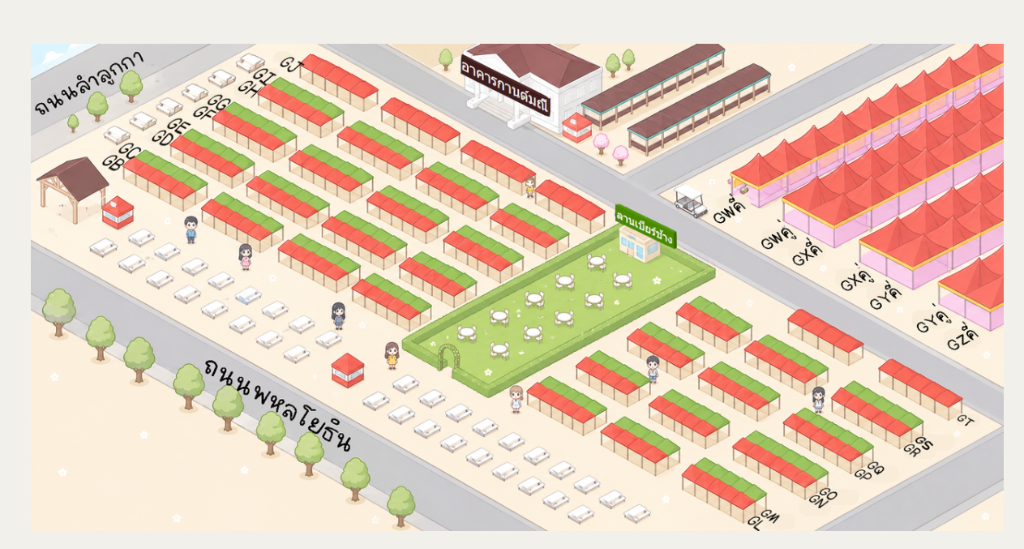
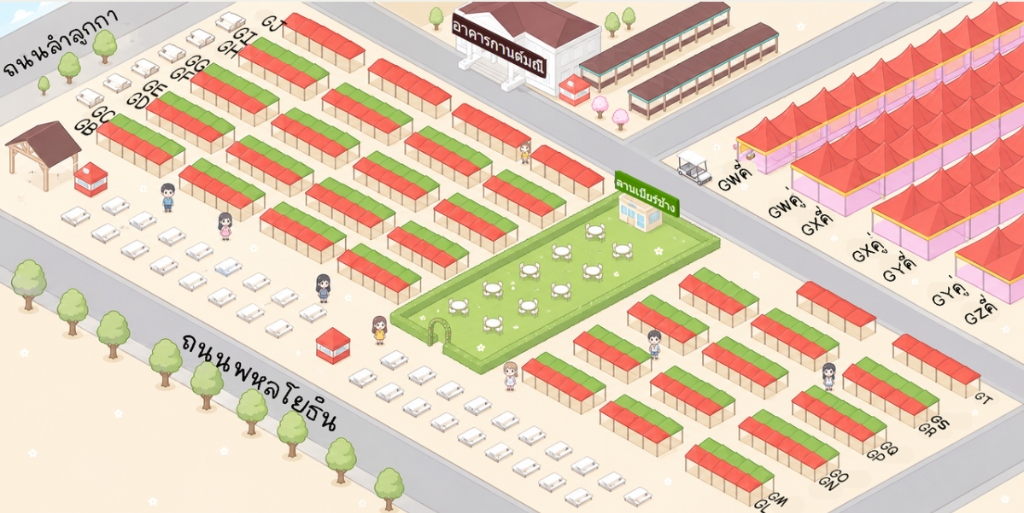
Replace market map image with the full cropped version and adjust SVG viewBox height to 513px

diff --git a/resources/views/admin/map/index.blade.php b/resources/views/admin/map/index.blade.php
@@ -240,9 +240,9 @@
             <!-- Map rendering -->
             <div class="map-card">
                 <div class="map-viewport">
-                    <svg viewBox="0 0 1024 549" width="100%" height="100%" class="market-svg">
+                    <svg viewBox="0 0 1024 513" width="100%" height="100%" class="market-svg">
                         <!-- Background cartoon image -->
-                        <image href="/images/market_map.png" x="0" y="0" width="1024" height="549" />
+                        <image href="/images/market_map.png" x="0" y="0" width="1024" height="513" />
 
                         <!-- Dynamic Lots rendering with pixel-perfect overlays -->
                         @foreach($zones as $zone)

diff --git a/resources/views/public/map.blade.php b/resources/views/public/map.blade.php
@@ -283,9 +283,9 @@
     <!-- Map View -->
     <div class="map-card">
         <div class="map-viewport">
-            <svg viewBox="0 0 1024 549" width="100%" height="100%" class="market-svg">
+            <svg viewBox="0 0 1024 513" width="100%" height="100%" class="market-svg">
                 <!-- Background cartoon image -->
-                <image href="/images/market_map.png" x="0" y="0" width="1024" height="549" />
+                <image href="/images/market_map.png" x="0" y="0" width="1024" height="513" />
 
                 <!-- Dynamic Lots rendering with pixel-perfect overlays -->
                 @foreach($zones as $zone)